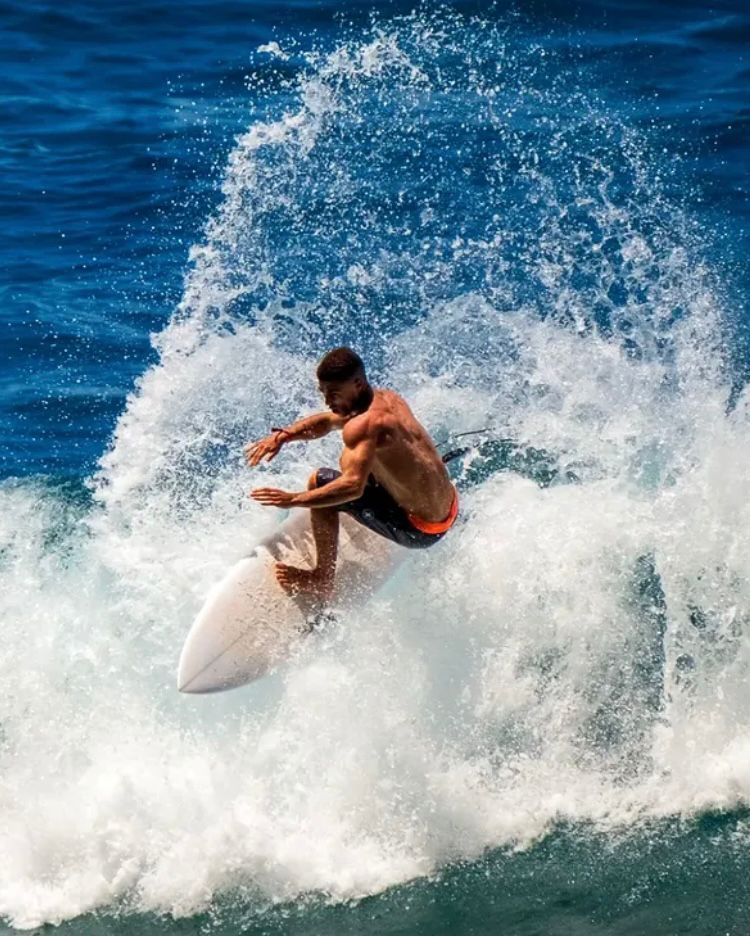
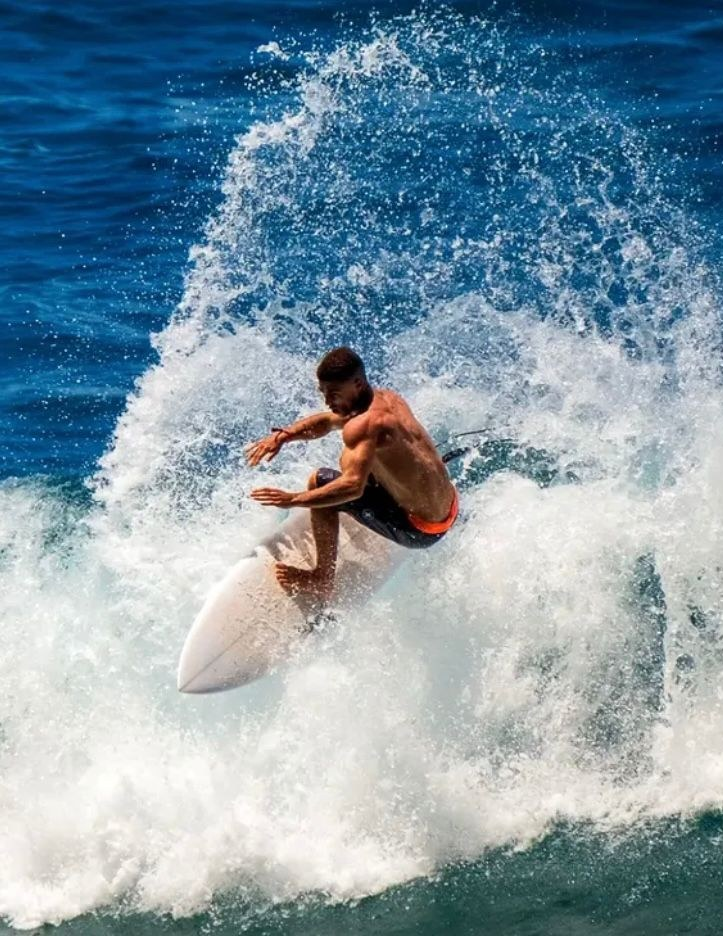
services: crop dark edge artifacts from machico (-1px) and faja (-27px right)

diff --git a/de/index.html b/de/index.html
@@ -251,7 +251,7 @@
 
         <li><article class="card service-card">
           <div class="card__media">
-            <img src="/assets/images/services/surf_machico_nilton.jpeg" alt="" width="749" height="494" loading="lazy">
+            <img src="/assets/images/services/surf_machico_nilton.jpeg" alt="" width="748" height="494" loading="lazy">
           </div>
           <div class="card__body">
             <h3 class="card__title" data-content-id="services.guiding.title">Surf Guiding Experience</h3>
@@ -273,7 +273,7 @@
 
         <li><article class="card service-card">
           <div class="card__media">
-            <img src="/assets/images/services/faja_da_areia_nilton.jpeg" alt="" width="750" height="936" loading="lazy">
+            <img src="/assets/images/services/faja_da_areia_nilton.jpeg" alt="" width="723" height="936" loading="lazy">
           </div>
           <div class="card__body">
             <h3 class="card__title" data-content-id="services.week.title">1 Week Surf Progression Program</h3>

diff --git a/en/index.html b/en/index.html
@@ -258,7 +258,7 @@
 
         <li><article class="card service-card">
           <div class="card__media">
-            <img src="/assets/images/services/surf_machico_nilton.jpeg" alt="" width="749" height="494" loading="lazy">
+            <img src="/assets/images/services/surf_machico_nilton.jpeg" alt="" width="748" height="494" loading="lazy">
           </div>
           <div class="card__body">
             <h3 class="card__title" data-content-id="services.guiding.title">Surf Guiding Experience</h3>
@@ -280,7 +280,7 @@
 
         <li><article class="card service-card">
           <div class="card__media">
-            <img src="/assets/images/services/faja_da_areia_nilton.jpeg" alt="" width="750" height="936" loading="lazy">
+            <img src="/assets/images/services/faja_da_areia_nilton.jpeg" alt="" width="723" height="936" loading="lazy">
           </div>
           <div class="card__body">
             <h3 class="card__title" data-content-id="services.week.title">1 Week Surf Progression Program</h3>

diff --git a/fr/index.html b/fr/index.html
@@ -251,7 +251,7 @@
 
         <li><article class="card service-card">
           <div class="card__media">
-            <img src="/assets/images/services/surf_machico_nilton.jpeg" alt="" width="749" height="494" loading="lazy">
+            <img src="/assets/images/services/surf_machico_nilton.jpeg" alt="" width="748" height="494" loading="lazy">
           </div>
           <div class="card__body">
             <h3 class="card__title" data-content-id="services.guiding.title">Surf Guiding Experience</h3>
@@ -273,7 +273,7 @@
 
         <li><article class="card service-card">
           <div class="card__media">
-            <img src="/assets/images/services/faja_da_areia_nilton.jpeg" alt="" width="750" height="936" loading="lazy">
+            <img src="/assets/images/services/faja_da_areia_nilton.jpeg" alt="" width="723" height="936" loading="lazy">
           </div>
           <div class="card__body">
             <h3 class="card__title" data-content-id="services.week.title">1 Week Surf Progression Program</h3>

diff --git a/pt/index.html b/pt/index.html
@@ -254,7 +254,7 @@
 
         <li><article class="card service-card">
           <div class="card__media">
-            <img src="/assets/images/services/surf_machico_nilton.jpeg" alt="" width="749" height="494" loading="lazy">
+            <img src="/assets/images/services/surf_machico_nilton.jpeg" alt="" width="748" height="494" loading="lazy">
           </div>
           <div class="card__body">
             <h3 class="card__title" data-content-id="services.guiding.title">Surf Guiding Experience</h3>
@@ -276,7 +276,7 @@
 
         <li><article class="card service-card">
           <div class="card__media">
-            <img src="/assets/images/services/faja_da_areia_nilton.jpeg" alt="" width="750" height="936" loading="lazy">
+            <img src="/assets/images/services/faja_da_areia_nilton.jpeg" alt="" width="723" height="936" loading="lazy">
           </div>
           <div class="card__body">
             <h3 class="card__title" data-content-id="services.week.title">1 Week Surf Progression Program</h3>

diff --git a/uk/index.html b/uk/index.html
@@ -251,7 +251,7 @@
 
         <li><article class="card service-card">
           <div class="card__media">
-            <img src="/assets/images/services/surf_machico_nilton.jpeg" alt="" width="749" height="494" loading="lazy">
+            <img src="/assets/images/services/surf_machico_nilton.jpeg" alt="" width="748" height="494" loading="lazy">
           </div>
           <div class="card__body">
             <h3 class="card__title" data-content-id="services.guiding.title">Surf Guiding Experience</h3>
@@ -273,7 +273,7 @@
 
         <li><article class="card service-card">
           <div class="card__media">
-            <img src="/assets/images/services/faja_da_areia_nilton.jpeg" alt="" width="750" height="936" loading="lazy">
+            <img src="/assets/images/services/faja_da_areia_nilton.jpeg" alt="" width="723" height="936" loading="lazy">
           </div>
           <div class="card__body">
             <h3 class="card__title" data-content-id="services.week.title">1 Week Surf Progression Program</h3>
